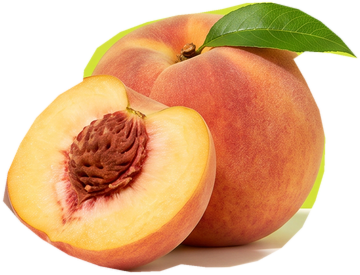
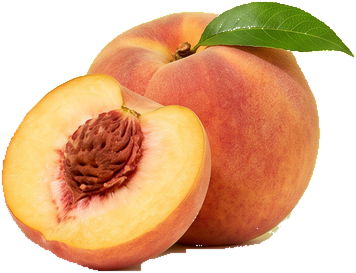
Ground hero with real matcha powder and restrained fruit accents

diff --git a/index.html b/index.html
@@ -1,6 +1,6 @@
 <!DOCTYPE html>
 <html lang="en">
-<head><meta charset="UTF-8"><meta name="viewport" content="width=device-width,initial-scale=1"><title>Tatsu Tea — Homepage Concept</title><link rel="stylesheet" href="styles.css?v=grounded-ingredients"></head>
+<head><meta charset="UTF-8"><meta name="viewport" content="width=device-width,initial-scale=1"><title>Tatsu Tea — Homepage Concept</title><link rel="stylesheet" href="styles.css?v=premium-type-spacing"></head>
 <body>
 <svg aria-hidden="true" style="display:none"><defs>
 <symbol id="arrow" viewBox="0 0 24 24"><path d="M4 12h15m-6-6 6 6-6 6"/></symbol>
@@ -15,7 +15,7 @@
 <button class="announcement" data-open="offer">YOUR MATCHA STARTER: 6 CANS + FREE SHIPPING. $19.* <span>TRY TATSU ↗</span></button>
 <header class="nav" id="navigation"><a href="#" class="wordmark" aria-label="Tatsu Tea home"><img class="brand-logo" src="assets/tatsu-original-logo.png" alt="Tatsu Tea"><span class="brand-category">MATCHA<br>PERFORMANCE TEA</span></a><nav class="nav-links" aria-label="Main navigation"><a href="#shop">Shop Tatsu</a><a href="#why-tatsu">Why Matcha?</a><a href="#community">Real People</a><a href="#faq">FAQs</a></nav><div class="nav-actions"><a class="btn" href="#discovery">Try Tatsu <svg><use href="#arrow"/></svg></a><button class="bag-button" aria-label="Open preview shopping bag" data-open="cart"><svg><use href="#bag"/></svg><span class="bag-count" id="bag-count">0</span></button><button class="menu-toggle" aria-label="Toggle navigation" aria-expanded="false" id="menu-button"><svg><use href="#menu"/></svg></button></div></header>
 <main>
-<section class="hero response-hero focused-hero" aria-labelledby="hero-title"><div class="hero-copy"><div class="hero-intro">REAL MATCHA. READY TO DRINK.</div><h1 id="hero-title">Meet your new<br><span>matcha ritual.</span></h1><p class="hero-description">The power of Japanese matcha.<br>Refreshing fruit flavors. No whisk required.</p><div class="hero-offer"><span class="offer-kicker">THE TATSU DISCOVERY PACK</span><div class="offer-price-lockup"><strong>$19</strong><div><b>delivered*</b><span>6 cans · 2 of each flavor*</span></div></div><div class="hero-unit-price">About $3.17 per can · shipping included*</div><div class="offer-inclusions"><span>✓ Free shipping*</span><span>✓ No subscription</span></div></div><button class="btn hero-convert" data-open="offer">TRY TATSU — $19 <svg><use href="#arrow"/></svg></button><div class="guarantee-line"><span class="guarantee-seal" aria-hidden="true">✓</span><span>First pack not for you? We’ll make it right.*</span></div><div class="hero-proof"><span class="proof-quote" aria-hidden="true">“</span><div><p>“I tried my first Tatsu today and it was so good.”</p><small>Claudia W. · Tatsu website testimonial excerpt</small></div></div></div><div class="hero-photo pack-scene"><div class="pack-scene-heading">YOUR FIRST SIP STARTS HERE.<span>Big matcha energy. Small commitment.</span></div><div class="six-pack-art"><div class="hero-ingredients" aria-hidden="true"><img class="ingredient-mound" src="assets/hero-matcha.png" alt=""><img class="ingredient-peach" src="assets/hero-peach.png" alt=""><img class="ingredient-berry" src="assets/hero-strawberry.png" alt=""><img class="ingredient-lychee" src="assets/hero-lychee.png" alt=""></div><img class="pack-can can-0" src="assets/lychee-can.png" alt="Tatsu lychee matcha tea can"><img class="pack-can can-1" src="assets/peach-can.png" alt="Tatsu peach matcha tea can"><img class="pack-can can-2" src="assets/strawberry-can.png" alt="Tatsu strawberry matcha tea can"><img class="pack-can can-3" src="assets/peach-can.png" alt="Tatsu peach matcha tea can"><img class="pack-can can-4" src="assets/strawberry-can.png" alt="Tatsu strawberry matcha tea can"><img class="pack-can can-5" src="assets/lychee-can.png" alt="Tatsu lychee matcha tea can"></div><div class="pack-plinth"><strong>6 CANS. FIND YOUR FAVORITE.</strong><span>Proposed mix: 2 Lychee · 2 Peach · 2 Strawberry</span></div></div><section class="feature-strip benefit-band hero-benefits quiet-benefits" aria-label="The Tatsu matcha advantage"><div class="feature"><span class="benefit-icon" aria-hidden="true"><svg><use href="#leaf"/></svg></span><div><strong>REAL MATCHA.</strong><small>Japanese matcha in every can.</small></div></div><div class="feature"><span class="benefit-icon" aria-hidden="true"><svg><use href="#spark"/></svg></span><div><strong>ENERGY + FOCUS.</strong><small>Caffeine + L-theanine.</small></div></div><div class="feature"><span class="benefit-icon" aria-hidden="true"><svg><use href="#drop"/></svg></span><div><strong>ELECTROLYTES + MORE.</strong><small>Electrolytes, vitamins & minerals.</small></div></div><div class="feature"><span class="benefit-icon" aria-hidden="true"><svg><use href="#can"/></svg></span><div><strong>ZERO PREP.</strong><small>Zero prep. Ready to drink.</small></div></div></section></section><section class="ritual-reasons" aria-labelledby="ritual-reasons-title"><div class="eyebrow">A LITTLE MORE REASON TO TAKE THAT FIRST SIP.</div><h2 id="ritual-reasons-title">Why make matcha your <span>daily ritual?</span></h2><div class="reason-grid"><article><span class="reason-number">01 / MATCHA FIRST</span><h3>Real matcha.<br>Not an afterthought.</h3><p>Japanese matcha is the foundation of every Tatsu flavor.</p></article><article><span class="reason-number">02 / FIND YOUR FLAVOR</span><h3>Three flavors.<br>One easy first step.</h3><p>Explore Lychee, Peach, and Strawberry before committing to a full case.</p></article><article><span class="reason-number">03 / FITS YOUR DAY</span><h3>No whisk.<br>No waiting.</h3><p>Ready to drink. Enjoy chilled, straight from the can or over ice.</p></article></div><a class="text-link" href="#discovery">Meet the proposed Discovery Pack <svg><use href="#arrow"/></svg></a></section><section class="section discovery" id="discovery"><div class="discovery-art"><span class="discovery-label">THE FIRST-SIP STARTER / CONCEPT</span><div class="discovery-images"><img src="assets/lychee.jpg" alt="Lychee flavor reference"><img src="assets/peach.png" alt="Peach flavor reference"><img src="assets/strawberry.png" alt="Strawberry flavor reference"></div><span class="discovery-art-note">Proposed mix: 2 Lychee · 2 Peach · 2 Strawberry</span></div><div class="discovery-copy"><div class="eyebrow">NEW TO MATCHA? START HERE.</div><h2>Find your flavor.<br><span class="serif">Meet your daily ritual.</span></h2><p>Real Japanese matcha. Refreshing fruit flavors. No whisk, no prep, no big commitment. A proposed six-can discovery pack makes your first sip easy.</p><div class="discovery-price"><strong>$19</strong><span>delivered*<small>6 cans · approximately $3.17 each</small></span></div><ul class="discovery-checks"><li>2 Lychee · 2 Peach · 2 Strawberry cans*</li><li>Free shipping on your starter pack*</li><li>One-time purchase. No subscription required.</li><li>Love your first pack or your money back*</li></ul><button class="btn add-discovery">Try the Discovery Pack — $19 <svg><use href="#arrow"/></svg></button><small class="offer-footnote">*Proposed offer only. Pack configuration, price, shipping coverage, taxes, and guarantee terms require approval. No real checkout.</small></div></section><section class="section shop" id="shop"><div class="section-heading"><div><div class="eyebrow">START HERE / SAME MATCHA. YOUR KIND OF FRUIT.</div><h2>Find your <span class="serif">first flavor.</span></h2></div><p>Japanese matcha in every can.<br>Three ways to make it your daily ritual.</p></div><div class="shop-offer"><div><span class="offer-kicker">NEW TO TATSU?</span><strong>Not sure which flavor? Start with the Discovery Pack.</strong><p>Explore the proposed six-can starter for $19 delivered—or browse full cases below.</p></div><button class="text-link" data-open="offer">Explore the $19 starter* <svg><use href="#arrow"/></svg></button></div><div class="purchase-switch" role="group" aria-label="Purchase option"><button class="active" data-plan="once" aria-pressed="true">One-time purchase</button><button data-plan="subscription" aria-pressed="false">Subscribe monthly <small>SAVE $8.01</small></button></div><div class="product-grid">
+<section class="hero response-hero focused-hero" aria-labelledby="hero-title"><div class="hero-copy"><div class="hero-intro">REAL MATCHA. READY TO DRINK.</div><h1 id="hero-title">Meet your new<br><span>matcha ritual.</span></h1><p class="hero-description">Japanese matcha. Refreshing fruit flavors.<br>Ready to drink, with no whisk required.</p><div class="hero-offer"><span class="offer-kicker">THE DISCOVERY PACK</span><p class="hero-pack-detail">6 cans. Three flavors. Find your favorite.</p><div class="offer-price-lockup"><strong>$19</strong><div><b>delivered*</b></div></div><div class="hero-unit-price">About $3.17 per can <span>·</span> No subscription</div></div><button class="btn hero-convert" data-open="offer">TRY TATSU — $19 <svg><use href="#arrow"/></svg></button><div class="guarantee-line"><span class="guarantee-seal" aria-hidden="true">✓</span><span>First pack not for you? We’ll make it right.*</span></div><div class="hero-proof"><span class="proof-quote" aria-hidden="true">“</span><div><p>“I tried my first Tatsu today and it was so good.”</p><small>Claudia W. · From the Tatsu community</small></div></div></div><div class="hero-photo pack-scene"><div class="pack-scene-heading">MATCHA FIRST. FLAVOR FORWARD.<span>Your first sip starts here.</span></div><div class="six-pack-art"><div class="hero-ingredients" aria-hidden="true"><img class="ingredient-mound" src="assets/hero-matcha.png" alt=""><img class="ingredient-peach" src="assets/hero-peach.png?v=clean-edge" alt=""><img class="ingredient-berry" src="assets/hero-strawberry.png?v=clean-edge" alt=""><img class="ingredient-lychee" src="assets/hero-lychee.png" alt=""></div><img class="pack-can can-0" src="assets/lychee-can.png" alt="Tatsu lychee matcha tea can"><img class="pack-can can-1" src="assets/peach-can.png" alt="Tatsu peach matcha tea can"><img class="pack-can can-2" src="assets/strawberry-can.png" alt="Tatsu strawberry matcha tea can"><img class="pack-can can-3" src="assets/peach-can.png" alt="Tatsu peach matcha tea can"><img class="pack-can can-4" src="assets/strawberry-can.png" alt="Tatsu strawberry matcha tea can"><img class="pack-can can-5" src="assets/lychee-can.png" alt="Tatsu lychee matcha tea can"></div><div class="pack-plinth"><span>LYCHEE <i>·</i> PEACH <i>·</i> STRAWBERRY</span></div></div><section class="feature-strip benefit-band hero-benefits quiet-benefits" aria-label="The Tatsu matcha advantage"><div class="feature"><span class="benefit-icon" aria-hidden="true"><svg><use href="#leaf"/></svg></span><div><strong>REAL MATCHA.</strong><small>Japanese matcha in every can.</small></div></div><div class="feature"><span class="benefit-icon" aria-hidden="true"><svg><use href="#spark"/></svg></span><div><strong>ENERGY + FOCUS.</strong><small>Caffeine + L-theanine.</small></div></div><div class="feature"><span class="benefit-icon" aria-hidden="true"><svg><use href="#drop"/></svg></span><div><strong>ELECTROLYTES + MORE.</strong><small>Electrolytes, vitamins & minerals.</small></div></div><div class="feature"><span class="benefit-icon" aria-hidden="true"><svg><use href="#can"/></svg></span><div><strong>ZERO PREP.</strong><small>Zero prep. Ready to drink.</small></div></div></section></section><section class="ritual-reasons" aria-labelledby="ritual-reasons-title"><div class="eyebrow">A LITTLE MORE REASON TO TAKE THAT FIRST SIP.</div><h2 id="ritual-reasons-title">Why make matcha your <span>daily ritual?</span></h2><div class="reason-grid"><article><span class="reason-number">01 / MATCHA FIRST</span><h3>Real matcha.<br>Not an afterthought.</h3><p>Japanese matcha is the foundation of every Tatsu flavor.</p></article><article><span class="reason-number">02 / FIND YOUR FLAVOR</span><h3>Three flavors.<br>One easy first step.</h3><p>Explore Lychee, Peach, and Strawberry before committing to a full case.</p></article><article><span class="reason-number">03 / FITS YOUR DAY</span><h3>No whisk.<br>No waiting.</h3><p>Ready to drink. Enjoy chilled, straight from the can or over ice.</p></article></div><a class="text-link" href="#discovery">Meet the proposed Discovery Pack <svg><use href="#arrow"/></svg></a></section><section class="section discovery" id="discovery"><div class="discovery-art"><span class="discovery-label">THE FIRST-SIP STARTER / CONCEPT</span><div class="discovery-images"><img src="assets/lychee.jpg" alt="Lychee flavor reference"><img src="assets/peach.png" alt="Peach flavor reference"><img src="assets/strawberry.png" alt="Strawberry flavor reference"></div><span class="discovery-art-note">Proposed mix: 2 Lychee · 2 Peach · 2 Strawberry</span></div><div class="discovery-copy"><div class="eyebrow">NEW TO MATCHA? START HERE.</div><h2>Find your flavor.<br><span class="serif">Meet your daily ritual.</span></h2><p>Real Japanese matcha. Refreshing fruit flavors. No whisk, no prep, no big commitment. A proposed six-can discovery pack makes your first sip easy.</p><div class="discovery-price"><strong>$19</strong><span>delivered*<small>6 cans · approximately $3.17 each</small></span></div><ul class="discovery-checks"><li>2 Lychee · 2 Peach · 2 Strawberry cans*</li><li>Free shipping on your starter pack*</li><li>One-time purchase. No subscription required.</li><li>Love your first pack or your money back*</li></ul><button class="btn add-discovery">Try the Discovery Pack — $19 <svg><use href="#arrow"/></svg></button><small class="offer-footnote">*Proposed offer only. Pack configuration, price, shipping coverage, taxes, and guarantee terms require approval. No real checkout.</small></div></section><section class="section shop" id="shop"><div class="section-heading"><div><div class="eyebrow">START HERE / SAME MATCHA. YOUR KIND OF FRUIT.</div><h2>Find your <span class="serif">first flavor.</span></h2></div><p>Japanese matcha in every can.<br>Three ways to make it your daily ritual.</p></div><div class="shop-offer"><div><span class="offer-kicker">NEW TO TATSU?</span><strong>Not sure which flavor? Start with the Discovery Pack.</strong><p>Explore the proposed six-can starter for $19 delivered—or browse full cases below.</p></div><button class="text-link" data-open="offer">Explore the $19 starter* <svg><use href="#arrow"/></svg></button></div><div class="purchase-switch" role="group" aria-label="Purchase option"><button class="active" data-plan="once" aria-pressed="true">One-time purchase</button><button data-plan="subscription" aria-pressed="false">Subscribe monthly <small>SAVE $8.01</small></button></div><div class="product-grid">
 <article class="product-card"><div class="product-image"><img src="assets/lychee.jpg" alt="Tatsu Lychee tea can with lychee and matcha" loading="lazy"><span class="flavor-tag">LIGHT & TROPICAL</span></div><div class="product-topline"><h3>Lychee</h3><span class="price">$68.00</span></div><div class="product-meta"><span>24 cans · Matcha Performance Tea</span><span class="per-can">$2.83 / can</span></div><p class="product-desc">Delicate lychee. A little sweet. A lot to love.</p><button class="btn add-product" data-product="lychee">Add to Bag <svg><use href="#arrow"/></svg></button></article>
 <article class="product-card"><div class="product-image"><img src="assets/peach.png" alt="Tatsu Peach tea can with peach and matcha" loading="lazy"><span class="flavor-tag">CRISP & SUNNY</span></div><div class="product-topline"><h3>Peach</h3><span class="price">$68.00</span></div><div class="product-meta"><span>24 cans · Matcha Performance Tea</span><span class="per-can">$2.83 / can</span></div><p class="product-desc">Sun-ripened peach meets your new favorite tea.</p><button class="btn add-product" data-product="peach">Add to Bag <svg><use href="#arrow"/></svg></button></article>
 <article class="product-card"><div class="product-image"><img src="assets/strawberry.png" alt="Tatsu Strawberry tea can with strawberries and matcha" loading="lazy"><span class="flavor-tag">BRIGHT & JUICY</span></div><div class="product-topline"><h3>Strawberry</h3><span class="price">$68.00</span></div><div class="product-meta"><span>24 cans · Matcha Performance Tea</span><span class="per-can">$2.83 / can</span></div><p class="product-desc">Fresh-picked strawberry flavor. All-day kind of refreshment.</p><button class="btn add-product" data-product="strawberry">Add to Bag <svg><use href="#arrow"/></svg></button></article>

diff --git a/styles.css b/styles.css
@@ -141,3 +141,36 @@
 @container site (max-width:640px){.hero-ingredients .ingredient-mound{width:42%;left:9%;bottom:-4%}.hero-ingredients .ingredient-peach{width:33%;right:-3%;bottom:-2%}.hero-ingredients .ingredient-berry{width:26%;left:-4%;bottom:-3%}.hero-ingredients .ingredient-lychee{width:24%;right:6%;bottom:-4%}.six-pack-art{margin-bottom:22px}}
 .six-pack-art::before{content:"";position:absolute;left:0;right:0;bottom:-8%;height:13%;border-radius:50%;background:radial-gradient(ellipse,#081d15a6 0%,#0a21165c 42%,transparent 72%);filter:blur(7px);z-index:0;pointer-events:none}
 .hero-ingredients img{filter:drop-shadow(1px 4px 2px #10251c80)}
+/* Editorial hierarchy: fewer labels, deliberate spacing, readable supporting type. */
+.focused-hero .hero-copy{padding:40px 9% 34px 11%;align-items:flex-start;text-align:left}
+.focused-hero .hero-intro{font-size:10px;font-weight:600;letter-spacing:.16em;color:#d5e2d0}
+.focused-hero h1{font-size:clamp(42px,4.3cqi,64px);font-weight:600;line-height:1.04;letter-spacing:-.045em;margin:18px 0 18px}
+.focused-hero .hero-description{font-size:16px;font-weight:400;line-height:1.65;color:#e1e9dd;max-width:390px}
+.focused-hero .hero-offer{margin:28px 0 22px;width:100%}
+.focused-hero .offer-kicker{font-size:10px;letter-spacing:.15em;font-weight:600;color:#d5e2d0;margin:0 0 8px}
+.hero-pack-detail{font-size:14px;line-height:1.5;color:#fffef4;margin:0 0 12px}
+.focused-hero .offer-price-lockup{gap:13px;align-items:baseline}
+.focused-hero .offer-price-lockup>strong{font-size:64px;line-height:1;letter-spacing:-.055em;font-weight:600}
+.focused-hero .offer-price-lockup>div{border:0;padding:0}
+.focused-hero .offer-price-lockup b{font-size:20px;font-weight:500;letter-spacing:-.02em}
+.focused-hero .hero-unit-price{font-size:12px;line-height:1.5;color:#d5e2d0;margin-top:12px}
+.hero-unit-price>span{padding:0 7px;opacity:.65}
+.focused-hero .hero-convert{width:100%;max-width:480px;min-height:58px;border-radius:7px;font-size:15px;letter-spacing:.025em;box-shadow:0 3px 0 #0e291d}
+.focused-hero .guarantee-line{width:100%;max-width:480px;justify-content:center;margin-top:14px;font-size:11px;line-height:1.5;font-weight:400;gap:8px}
+.focused-hero .guarantee-seal{width:17px;height:17px;flex-basis:17px}
+.focused-hero .hero-proof{width:100%;max-width:480px;margin-top:24px;padding-top:18px;gap:10px;border-color:#ffffff24}
+.focused-hero .hero-proof p{font-size:13px;line-height:1.6;font-weight:400}
+.focused-hero .hero-proof small{font-size:10px;line-height:1.5;color:#bdcfb9;margin-top:7px}
+.focused-hero .proof-quote{font-size:26px}
+.focused-hero .pack-scene{min-height:590px;grid-template-rows:auto minmax(320px,1fr) auto}
+.focused-hero .pack-scene-heading{padding:39px 24px 14px;font-size:9px;font-weight:500;letter-spacing:.18em;color:#d5e2d0}
+.focused-hero .pack-scene-heading span{font-size:20px;font-weight:500;letter-spacing:-.025em;line-height:1.3;margin-top:10px;color:#fffef4}
+.focused-hero .six-pack-art{width:92%;min-height:320px;margin-top:10px;margin-bottom:25px}
+.focused-hero .pack-plinth{padding:8px 16px 30px}
+.focused-hero .pack-plinth span{font-size:10px;font-weight:500;letter-spacing:.16em;line-height:1.5;color:#e1e9dd;margin:0}
+.pack-plinth i{font-style:normal;padding:0 10px;opacity:.6}
+.focused-hero>.hero-benefits.quiet-benefits{padding-top:20px;padding-bottom:20px}
+.focused-hero .quiet-benefits .feature strong{font-size:11px;font-weight:600;letter-spacing:.035em}
+.focused-hero .quiet-benefits .feature small{font-size:11px;line-height:1.5;margin-top:4px}
+@container site (min-width:641px) and (max-width:1000px){.focused-hero .hero-copy{padding:32px 7%}.focused-hero h1{font-size:42px}.focused-hero .hero-description{font-size:14px}.focused-hero .pack-scene-heading span{font-size:17px}.focused-hero .quiet-benefits .feature small{font-size:10px}.focused-hero .quiet-benefits .feature strong{font-size:10px}.focused-hero .pack-scene{min-height:590px}}
+@container site (max-width:640px){.focused-hero .hero-copy{padding:30px 6% 28px}.focused-hero .hero-intro{font-size:9px;letter-spacing:.13em}.focused-hero h1{font-size:42px;line-height:1.05;margin:16px 0}.focused-hero .hero-description{font-size:14px;line-height:1.65}.focused-hero .hero-offer{margin:24px 0 20px}.focused-hero .offer-kicker{font-size:9px}.hero-pack-detail{font-size:13px;margin-bottom:12px}.focused-hero .offer-price-lockup>strong{font-size:58px}.focused-hero .offer-price-lockup b{font-size:19px}.focused-hero .hero-unit-price{font-size:11px;margin-top:10px}.focused-hero .hero-convert{min-height:55px;font-size:14px;max-width:none}.focused-hero .guarantee-line{font-size:10px;margin-top:13px}.focused-hero .hero-proof{margin-top:22px;padding-top:16px}.focused-hero .hero-proof p{font-size:12px}.focused-hero .hero-proof small{font-size:9px}.focused-hero .pack-scene{min-height:380px;grid-template-rows:auto 260px auto}.focused-hero .pack-scene-heading{padding:24px 16px 8px;font-size:8px}.focused-hero .pack-scene-heading span{font-size:19px;margin-top:8px}.focused-hero .six-pack-art{min-height:0;margin:8px auto 20px}.focused-hero .pack-plinth{padding:10px 12px 24px}.focused-hero .pack-plinth span{font-size:9px;letter-spacing:.13em}.focused-hero>.hero-benefits.quiet-benefits{padding:16px 6%;gap:16px 10px}.focused-hero .quiet-benefits .feature strong{font-size:10px}.focused-hero .quiet-benefits .feature small{font-size:10px}.focused-hero .quiet-benefits .benefit-icon{width:32px;height:32px;flex-basis:32px}}
